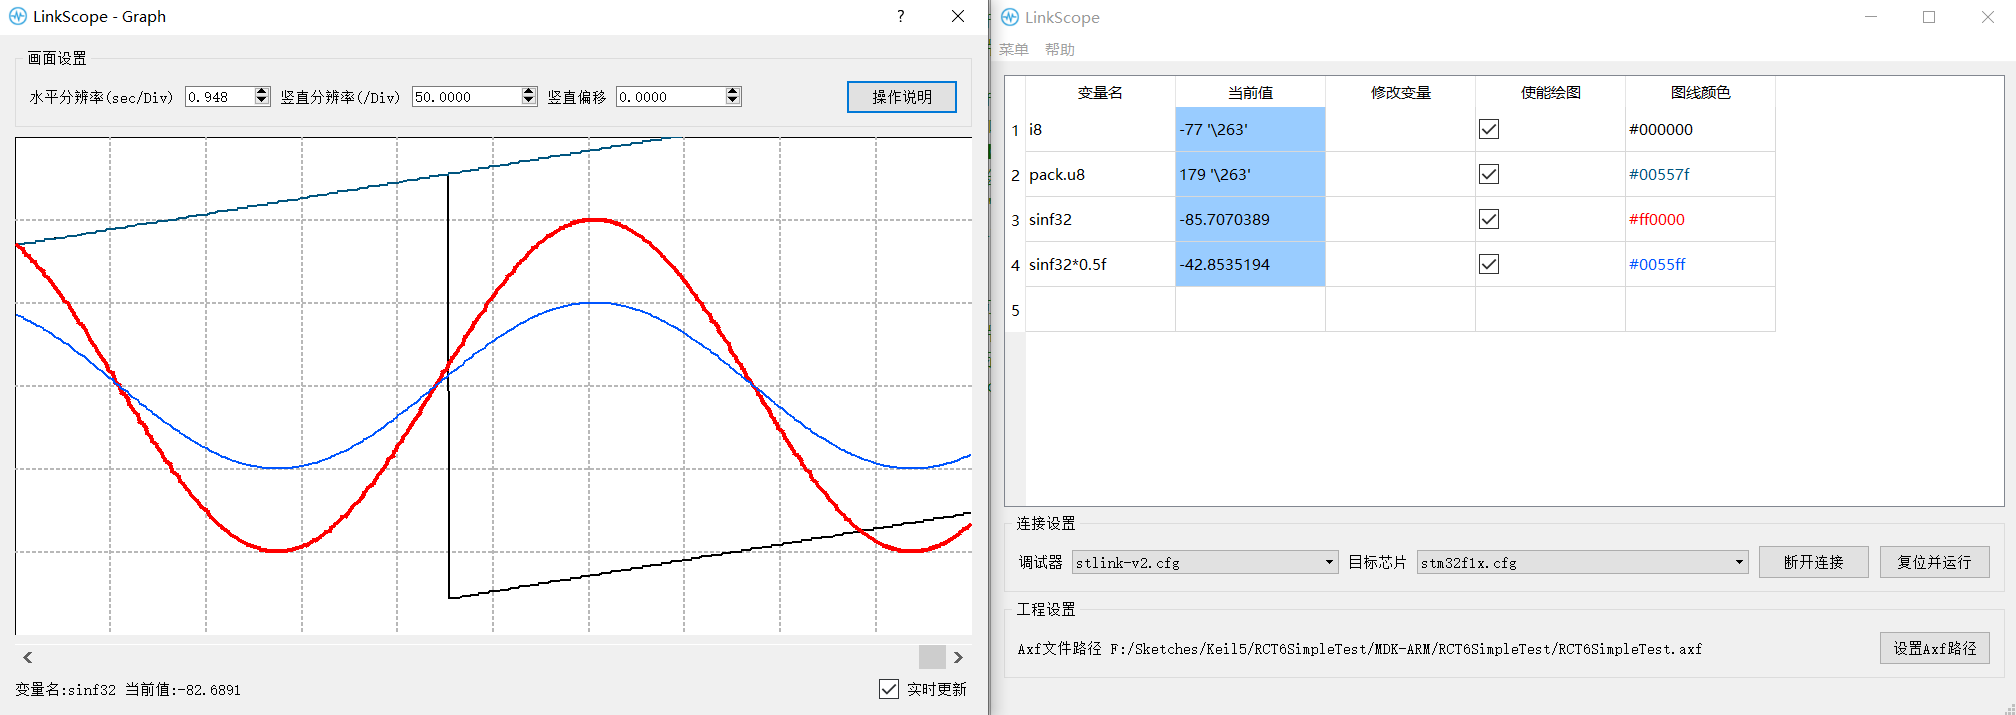
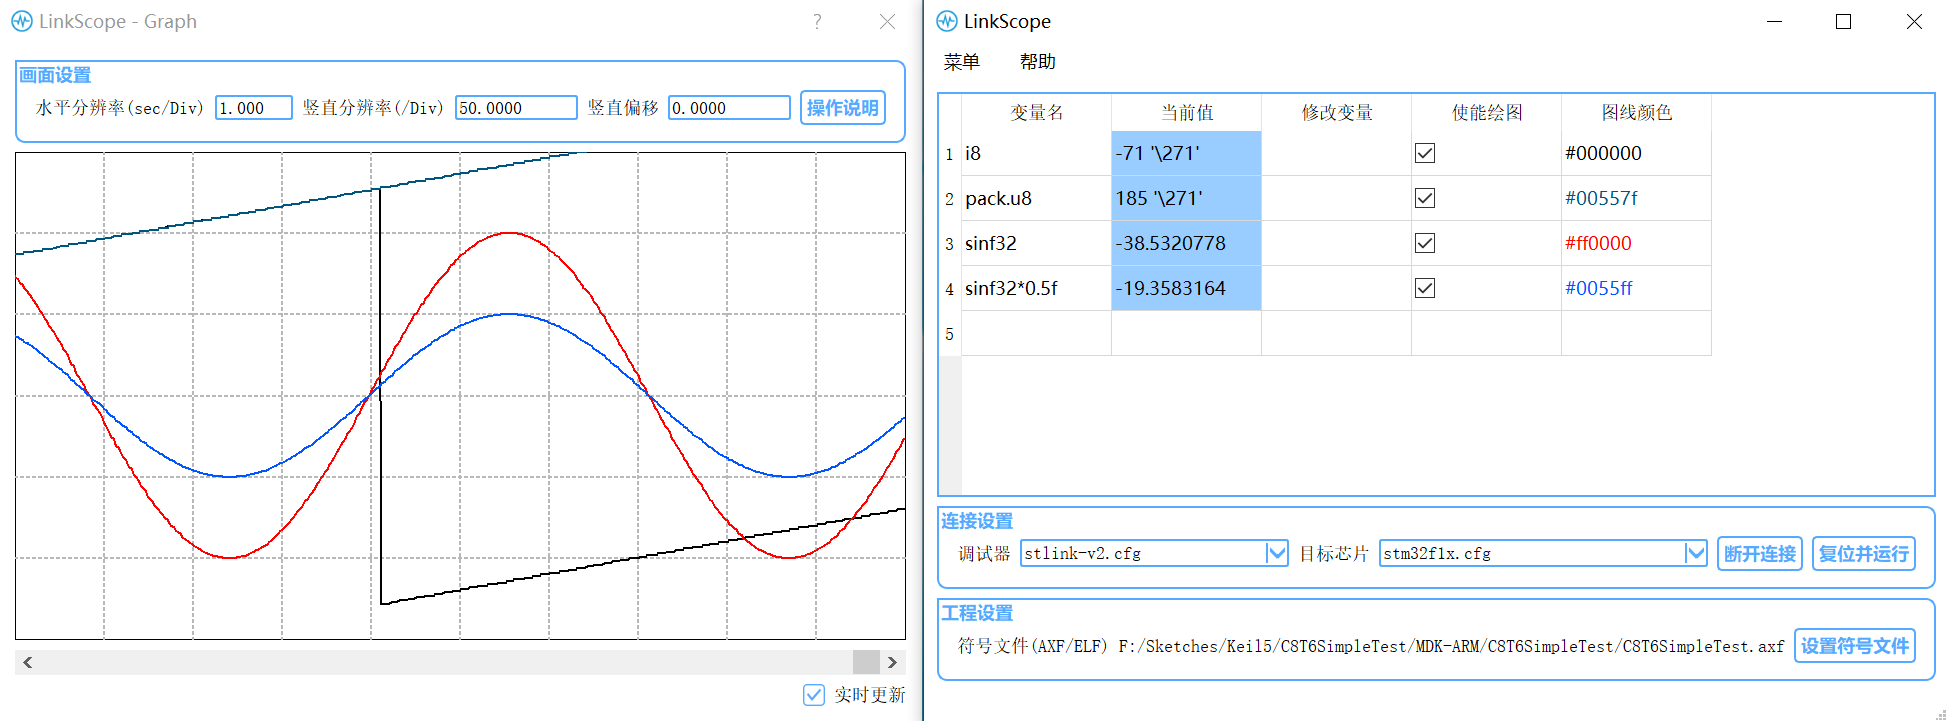
优化界面样式；修复符号文件路径不支持非ASCII字符的问题；增加对elf格式的支持；添加未选择符号文件的警告框；修复连接错误导致闪退的问题；版本号更新为1.0.1

diff --git a/mainwindow.cpp b/mainwindow.cpp
@@ -8,6 +8,8 @@ MainWindow::MainWindow(QWidget *parent)
     ui->setupUi(this);
     setWindowTitle("LinkScope");
 
+    setStylesheet();//设置全局样式表
+
     graph=new GraphWindow();//创建并显示绘图窗口
     graph->setVarList(&varList);
     graph->show();
@@ -163,7 +165,16 @@ void MainWindow::slotTableTimerTrig()
 //连接按钮点击，触发连接状态切换
 void MainWindow::on_bt_conn_clicked()
 {
-    setConnState(!connected);
+    if(!connected && !axfChosen)//用户未选择axf文件就点击连接按钮
+    {
+        QMessageBox msgBox;
+        msgBox.setWindowTitle("警告");
+        msgBox.setText("还未选择符号文件，连接后仅能使用绝对地址查看变量，是否继续连接？");
+        msgBox.setStandardButtons(QMessageBox::Ok | QMessageBox::Cancel);
+        if(msgBox.exec()!=QMessageBox::Ok)
+            return;
+    }
+    setConnState(!connected);//切换连接状态
 }
 
 //设置连接状态（参数true表示进行连接，false表示断开连接）
@@ -215,6 +226,8 @@ void MainWindow::setOCDState(bool connect)
     }
     else
     {
+        if(ocdProcess->state()==QProcess::NotRunning)
+            return;
         QProcess killProcess(0);//创建新进程，用taskkill强行结束ocd进程
         killProcess.setProgram("taskkill");
         killProcess.setNativeArguments(QString("/F /PID %1").arg(ocdProcess->pid()->dwProcessId));
@@ -229,6 +242,7 @@ void MainWindow::setGDBState(bool run)
     if(run)
     {
         gdbProcess->setProgram(QCoreApplication::applicationDirPath()+"/gdb/gdb.exe");//设置程序路径
+        gdbProcess->setWorkingDirectory(QCoreApplication::applicationDirPath()+"/gdb");//设置工作路径
         gdbProcess->setNativeArguments("-q");//设置gdb在安静模式下打开
         gdbProcess->start();
     }
@@ -241,17 +255,23 @@ void MainWindow::setGDBState(bool run)
 //参数true：gdb连接到本机3333端口，设置调试参数；参数false：断开gdb连接
 void MainWindow::setGDBConnState(bool connect)
 {
+    QString tmpFilePath=QCoreApplication::applicationDirPath()+"/gdb/tmp";//临时符号文件路径
     if(connect)
     {
         gdbProcess->write("target remote localhost:3333\r\n");//连接到3333端口
-        gdbProcess->write(QString("symbol-file %1 \r\n").arg(ui->txt_axf_path->text()).toStdString().c_str());//设置符号文件为所选的axf文件
+        QFile::remove(tmpFilePath);//确保删除当前的临时文件
+        QFile::copy(ui->txt_axf_path->text(),tmpFilePath);//将所选符号文件复制为临时文件
+        gdbProcess->write(QString("symbol-file %1 \r\n").arg("tmp").toStdString().c_str());//设置符号文件
         gdbProcess->write("set confirm off\r\n");//设置不要手动确认
         gdbProcess->write("set print pretty on\r\n");//设置结构体规范打印
         setGDBDispList();//向gdb发送当前的变量列表
     }
     else
     {
-        gdbProcess->write("disconnect\r\n");
+        gdbProcess->write("symbol-file\r\n");//取消符号文件
+        gdbProcess->write("disconnect\r\n");//断开gdb连接
+        sleep(10);//确保对临时文件取消占用
+        QFile::remove(tmpFilePath);//删除复制过来的临时文件
     }
 }
 
@@ -335,7 +355,7 @@ void MainWindow::on_bt_set_axf_clicked()
     QFileDialog *fileDialog = new QFileDialog(this);//弹出文件选择框
     fileDialog->setWindowTitle(QStringLiteral("选中文件"));
     fileDialog->setDirectory(".");
-    fileDialog->setNameFilter(tr("AXF File (*.axf)"));//设置文件过滤器为axf
+    fileDialog->setNameFilter(tr("AXF/ELF File (*.axf *.elf)"));//设置文件过滤器为axf/elf
     fileDialog->setFileMode(QFileDialog::ExistingFile);
     fileDialog->setViewMode(QFileDialog::Detail);
     if(fileDialog->exec())
@@ -344,6 +364,7 @@ void MainWindow::on_bt_set_axf_clicked()
         QString fileName=fileList.at(0);
         QFileInfo info(fileName);
         ui->txt_axf_path->setText(info.filePath());
+        axfChosen=true;
     }
 }
 
@@ -414,6 +435,7 @@ void MainWindow::saveToFile(const QString &filename)
     settings.beginGroup("Global");//写入全局配置
     settings.setValue("Interface",ui->cb_interface->currentText());
     settings.setValue("Target",ui->cb_target->currentText());
+    settings.setValue("AxfChosen",axfChosen);
     settings.setValue("AxfPath",ui->txt_axf_path->text());
     settings.setValue("VarNum",varList.size());
     settings.endGroup();
@@ -438,6 +460,7 @@ void MainWindow::loadFromFile(const QString &filename)
     settings.beginGroup("Global");//读取全局配置
     ui->cb_interface->setCurrentText(settings.value("Interface").toString());
     ui->cb_target->setCurrentText(settings.value("Target").toString());
+    axfChosen=settings.value("AxfChosen",true).toBool();
     ui->txt_axf_path->setText(settings.value("AxfPath").toString());
     int varNum=settings.value("VarNum").toInt();
     settings.endGroup();
@@ -613,7 +636,7 @@ void MainWindow::on_action_export_triggered()
 void MainWindow::on_action_about_triggered()
 {
     //弹出messagebox显示关于信息
-    QString str="LinkScope 版本号：V1.0.0\n\n"
+    QString str="LinkScope 版本号：V1.0.1\n\n"
                 "Developed by Skythinker";
     QMessageBox box;
     box.setWindowTitle("关于 LinkScope");
@@ -664,4 +687,12 @@ void MainWindow::on_action_refresh_conf_triggered()
 void MainWindow::on_action_homepage_triggered()
 {
     QDesktopServices::openUrl(QUrl("https://gitee.com/skythinker/link-scope"));//打开仓库主页
+}
+
+//设置QSS全局样式
+void MainWindow::setStylesheet()
+{
+    QFile qss(":/qss/light-blue.qss");
+    if(qss.open(QIODevice::ReadOnly))
+        qApp->setStyleSheet(QLatin1String(qss.readAll()));
 }

diff --git a/mainwindow.h b/mainwindow.h
@@ -63,6 +63,8 @@ private:
     QElapsedTimer *stampTimer;//时间戳定时器指针
     GraphWindow *graph;//绘图窗口指针
     bool isWatchProcessing=false;//标记当前是否正在处理变量值查看
+    bool axfChosen=false;//是否已经选择了axf文件
+    void setStylesheet();
     void setConnState(bool connect);
     void setOCDState(bool connect);
     void setGDBState(bool run);

diff --git a/graphwindow.cpp b/graphwindow.cpp
@@ -34,7 +34,7 @@ void GraphWindow::paintGraph(QWidget *canvas)
     QPainter painter(canvas); //画笔
 
     painter.setBrush(QBrush(QColor(Qt::white)));//填充背景
-    painter.drawRect(posx,posy,wid,hei);
+    painter.drawRect(posx,posy,wid-1,hei-1);
 
     //绘制标记线
     painter.setPen(QPen(QColor(184,184,184),2,Qt::DotLine));

diff --git a/README.md b/README.md
@@ -76,8 +76,6 @@
 
 * 将采样频率提升至约1kHz
 
-* 优化界面样式
-
 ---
 
 ## 运行过程简介
